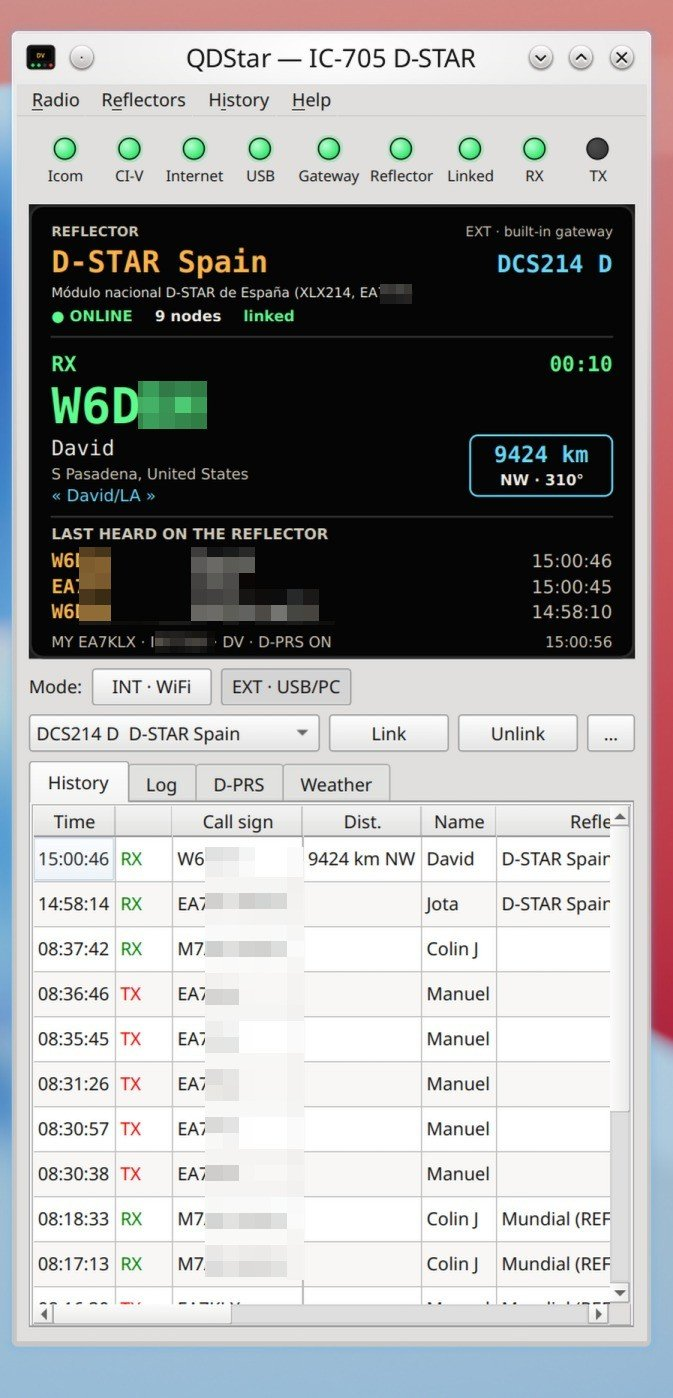
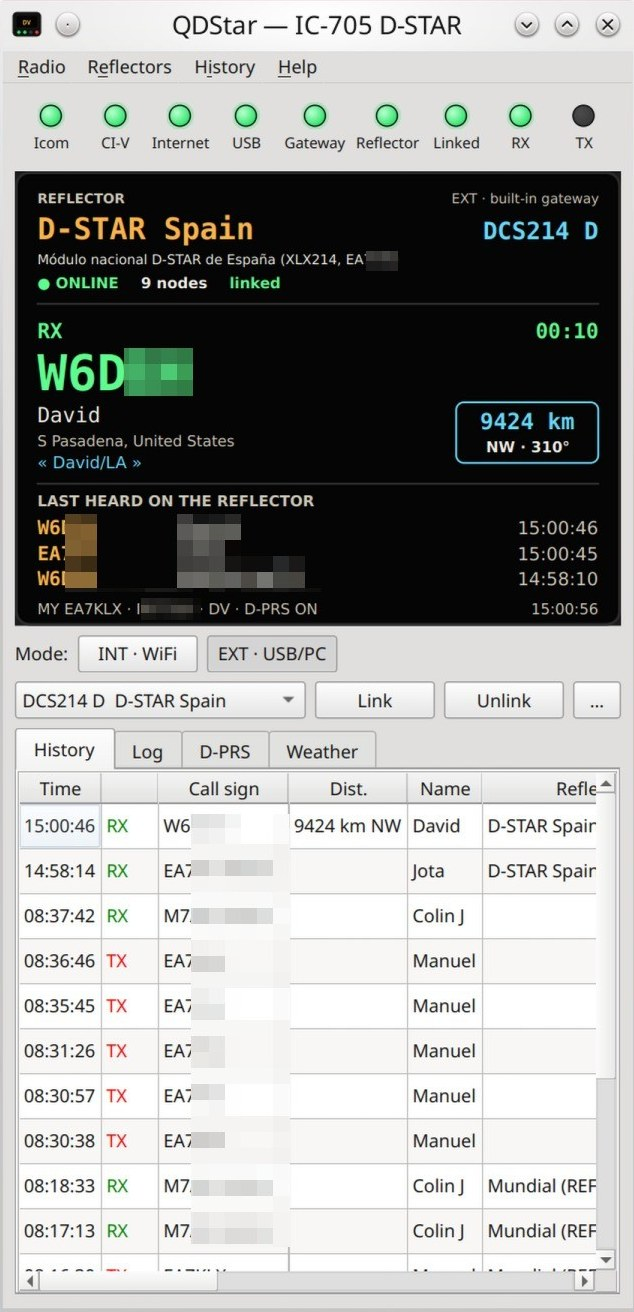
Website: download guide per system, cropped photos, click to enlarge images

diff --git a/website/site/es/index.html b/website/site/es/index.html
@@ -34,11 +34,11 @@
         <a class="btn primary" href="#descarga">Descargar</a>
         <a class="btn" href="/es/manual.html">Leer el manual</a>
       </div>
-      <p class="version" data-version="Última versión: {v}">Software libre · GPL-3.0</p>
+      <p class="version">Software libre · GPL-3.0</p>
     </div>
     <div class="photos">
-      <img src="/img/photo-history.jpg" width="673" height="1398" alt="QDStar enlazado a DCS214 D, recibiendo una estación de California, con la pestaña de histórico abierta">
-      <img src="/img/photo-weather.jpg" width="746" height="1382" alt="QDStar enlazado a DCS214 D con la pestaña de meteo mostrando una estación meteorológica D-PRS">
+      <img src="/img/photo-history.jpg" width="634" height="1312" alt="QDStar enlazado a DCS214 D, recibiendo una estación de California, con la pestaña de histórico abierta">
+      <img src="/img/photo-weather.jpg" width="634" height="1312" alt="QDStar enlazado a DCS214 D con la pestaña de meteo mostrando una estación meteorológica D-PRS">
     </div>
   </div>
 
@@ -71,21 +71,26 @@
 
   <section id="descarga">
     <h2>Descarga</h2>
-    <table class="dl">
-      <tr><th>Sistema</th><th>Archivos</th></tr>
-      <tr><td>Windows 10/11 x64</td><td>
-        <a data-asset="-windows-x64-setup.exe" href="https://github.com/manuel-alcocer/qdstar/releases/latest">Instalador (.exe)</a> ·
-        <a data-asset="-windows-x64-portable.zip" href="https://github.com/manuel-alcocer/qdstar/releases/latest">Portable (.zip)</a></td></tr>
-      <tr><td>Linux x86-64</td><td>
-        <a data-asset="_amd64.deb" href="https://github.com/manuel-alcocer/qdstar/releases/latest">.deb</a> ·
-        <a data-asset="-x86_64.AppImage" href="https://github.com/manuel-alcocer/qdstar/releases/latest">AppImage</a> ·
-        <a data-asset="-linux-amd64.tar.gz" href="https://github.com/manuel-alcocer/qdstar/releases/latest">.tar.gz</a></td></tr>
-      <tr><td>Linux ARM64<br><small style="color:var(--dim)">Raspberry Pi OS bookworm, Debian 12+, Ubuntu 22.04+</small></td><td>
-        <a data-asset="_arm64.deb" href="https://github.com/manuel-alcocer/qdstar/releases/latest">.deb</a> ·
-        <a data-asset="-aarch64.AppImage" href="https://github.com/manuel-alcocer/qdstar/releases/latest">AppImage</a> ·
-        <a data-asset="-linux-arm64.tar.gz" href="https://github.com/manuel-alcocer/qdstar/releases/latest">.tar.gz</a></td></tr>
-    </table>
-    <p>Todas las versiones y sus novedades están en la <a href="https://github.com/manuel-alcocer/qdstar/releases">página de publicaciones</a>. La instalación y la configuración de la radio se explican en el <a href="/es/manual.html#instalacion">manual</a>.</p>
+    <p>Todas las versiones se publican en GitHub. Elige el archivo de tu sistema con la tabla de abajo.</p>
+    <p class="buttons"><a class="btn primary" href="https://github.com/manuel-alcocer/qdstar/releases/latest">Descargar desde GitHub</a></p>
+    <p class="version" data-version="Última versión: {v}"></p>
+    <div class="systems">
+      <div class="card system"><h3>Windows 10/11</h3><p class="sub">64 bits</p>
+        <div class="file"><code>QDStar-x.y.z-windows-x64-setup.exe</code> <span class="tag">Recomendado</span><p>Un instalador que añade QDStar al menú Inicio. Para actualizar, ejecuta el instalador de la versión nueva: se conservan tus ajustes.</p></div>
+        <div class="file"><code>QDStar-x.y.z-windows-x64-portable.zip</code><p>Sin instalación: descomprímelo en cualquier carpeta, o en un pendrive, y ejecuta <code>qdstar.exe</code>.</p></div>
+      </div>
+      <div class="card system"><h3>Linux en un PC</h3><p class="sub">x86-64 / amd64</p>
+        <div class="file"><code>qdstar_x.y.z_amd64.deb</code> <span class="tag">Recomendado</span><p>Para Debian, Ubuntu, Linux Mint y sus derivadas. Se instala con <code>sudo apt install ./qdstar_x.y.z_amd64.deb</code>.</p></div>
+        <div class="file"><code>QDStar-x.y.z-x86_64.AppImage</code><p>Funciona en casi cualquier distribución (Fedora, Arch, openSUSE…). Dale permiso de ejecución y ábrelo.</p></div>
+        <div class="file"><code>QDStar-x.y.z-linux-amd64.tar.gz</code><p>El programa en archivos sueltos, para descomprimir donde quieras.</p></div>
+      </div>
+      <div class="card system"><h3>Linux en ARM</h3><p class="sub">arm64 / aarch64: Raspberry Pi 4/5 y otros mini PC con sistema de 64 bits</p>
+        <div class="file"><code>qdstar_x.y.z_arm64.deb</code> <span class="tag">Recomendado</span><p>Para Raspberry Pi OS (64 bits, bookworm o posterior), Debian y Ubuntu.</p></div>
+        <div class="file"><code>QDStar-x.y.z-aarch64.AppImage</code><p>Para otras distribuciones ARM64.</p></div>
+        <div class="file"><code>QDStar-x.y.z-linux-arm64.tar.gz</code><p>El programa en archivos sueltos.</p></div>
+      </div>
+    </div>
+    <p><code>x.y.z</code> es el número de versión. ¿No sabes qué Linux tienes? Ejecuta <code>uname -m</code>: <code>x86_64</code> es PC (amd64) y <code>aarch64</code> es ARM64. La instalación y la configuración de la radio se explican en el <a href="/es/manual.html#instalacion">manual</a>.</p>
   </section>
 </main>
 
@@ -96,5 +101,6 @@
   </div>
 </footer>
 <script src="/latest.js" defer></script>
+<script src="/zoom.js" defer></script>
 </body>
 </html>

diff --git a/website/site/index.html b/website/site/index.html
@@ -34,11 +34,11 @@
         <a class="btn primary" href="#download">Download</a>
         <a class="btn" href="/manual.html">Read the manual</a>
       </div>
-      <p class="version" data-version="Latest version: {v}">Free software · GPL-3.0</p>
+      <p class="version">Free software · GPL-3.0</p>
     </div>
     <div class="photos">
-      <img src="/img/photo-history.jpg" width="673" height="1398" alt="QDStar linked to DCS214 D, receiving a station from California, with the history tab open">
-      <img src="/img/photo-weather.jpg" width="746" height="1382" alt="QDStar linked to DCS214 D with the weather tab showing a D-PRS weather station">
+      <img src="/img/photo-history.jpg" width="634" height="1312" alt="QDStar linked to DCS214 D, receiving a station from California, with the history tab open">
+      <img src="/img/photo-weather.jpg" width="634" height="1312" alt="QDStar linked to DCS214 D with the weather tab showing a D-PRS weather station">
     </div>
   </div>
 
@@ -71,21 +71,26 @@
 
   <section id="download">
     <h2>Download</h2>
-    <table class="dl">
-      <tr><th>System</th><th>Files</th></tr>
-      <tr><td>Windows 10/11 x64</td><td>
-        <a data-asset="-windows-x64-setup.exe" href="https://github.com/manuel-alcocer/qdstar/releases/latest">Installer (.exe)</a> ·
-        <a data-asset="-windows-x64-portable.zip" href="https://github.com/manuel-alcocer/qdstar/releases/latest">Portable (.zip)</a></td></tr>
-      <tr><td>Linux x86-64</td><td>
-        <a data-asset="_amd64.deb" href="https://github.com/manuel-alcocer/qdstar/releases/latest">.deb</a> ·
-        <a data-asset="-x86_64.AppImage" href="https://github.com/manuel-alcocer/qdstar/releases/latest">AppImage</a> ·
-        <a data-asset="-linux-amd64.tar.gz" href="https://github.com/manuel-alcocer/qdstar/releases/latest">.tar.gz</a></td></tr>
-      <tr><td>Linux ARM64<br><small style="color:var(--dim)">Raspberry Pi OS bookworm, Debian 12+, Ubuntu 22.04+</small></td><td>
-        <a data-asset="_arm64.deb" href="https://github.com/manuel-alcocer/qdstar/releases/latest">.deb</a> ·
-        <a data-asset="-aarch64.AppImage" href="https://github.com/manuel-alcocer/qdstar/releases/latest">AppImage</a> ·
-        <a data-asset="-linux-arm64.tar.gz" href="https://github.com/manuel-alcocer/qdstar/releases/latest">.tar.gz</a></td></tr>
-    </table>
-    <p>All versions and release notes are on the <a href="https://github.com/manuel-alcocer/qdstar/releases">releases page</a>. See the <a href="/manual.html#install">manual</a> for installation and radio setup.</p>
+    <p>Every version is published on GitHub. Pick the file for your system from the list below.</p>
+    <p class="buttons"><a class="btn primary" href="https://github.com/manuel-alcocer/qdstar/releases/latest">Download from GitHub</a></p>
+    <p class="version" data-version="Latest version: {v}"></p>
+    <div class="systems">
+      <div class="card system"><h3>Windows 10/11</h3><p class="sub">64-bit</p>
+        <div class="file"><code>QDStar-x.y.z-windows-x64-setup.exe</code> <span class="tag">Recommended</span><p>An installer that adds QDStar to the Start menu. To update, run the new version's installer: your settings are kept.</p></div>
+        <div class="file"><code>QDStar-x.y.z-windows-x64-portable.zip</code><p>No installation: unzip it in any folder, or on a USB stick, and run <code>qdstar.exe</code>.</p></div>
+      </div>
+      <div class="card system"><h3>Linux on a PC</h3><p class="sub">x86-64 / amd64</p>
+        <div class="file"><code>qdstar_x.y.z_amd64.deb</code> <span class="tag">Recommended</span><p>For Debian, Ubuntu, Linux Mint and their derivatives. Install it with <code>sudo apt install ./qdstar_x.y.z_amd64.deb</code>.</p></div>
+        <div class="file"><code>QDStar-x.y.z-x86_64.AppImage</code><p>Works on almost any distribution (Fedora, Arch, openSUSE…). Make it executable and run it.</p></div>
+        <div class="file"><code>QDStar-x.y.z-linux-amd64.tar.gz</code><p>The program as plain files, to unpack wherever you like.</p></div>
+      </div>
+      <div class="card system"><h3>Linux on ARM</h3><p class="sub">arm64 / aarch64: Raspberry Pi 4/5 and other mini PCs with a 64-bit system</p>
+        <div class="file"><code>qdstar_x.y.z_arm64.deb</code> <span class="tag">Recommended</span><p>For Raspberry Pi OS (64-bit, bookworm or later), Debian and Ubuntu.</p></div>
+        <div class="file"><code>QDStar-x.y.z-aarch64.AppImage</code><p>For other ARM64 distributions.</p></div>
+        <div class="file"><code>QDStar-x.y.z-linux-arm64.tar.gz</code><p>The program as plain files.</p></div>
+      </div>
+    </div>
+    <p><code>x.y.z</code> is the version number. Not sure which Linux you have? Run <code>uname -m</code>: <code>x86_64</code> means PC (amd64), <code>aarch64</code> means ARM64. See the <a href="/manual.html#install">manual</a> for installation and radio setup.</p>
   </section>
 </main>
 
@@ -96,5 +101,6 @@
   </div>
 </footer>
 <script src="/latest.js" defer></script>
+<script src="/zoom.js" defer></script>
 </body>
 </html>

diff --git a/website/site/style.css b/website/site/style.css
@@ -202,3 +202,54 @@ footer .wrap { display: flex; flex-wrap: wrap; gap: 8px 24px; justify-content: s
   .toc { position: static; }
   header.top nav a:not(.lang):not(.keep) { display: none; }
 }
+
+/* --- enlarged images ---------------------------------------------------- */
+
+img.zoomable { cursor: zoom-in; }
+
+.zoom {
+  display: none;
+  position: fixed;
+  inset: 0;
+  z-index: 100;
+  background: rgba(0, 0, 0, .9);
+  cursor: zoom-out;
+  align-items: center;
+  justify-content: center;
+  padding: 12px;
+}
+.zoom.open { display: flex; }
+.zoom img {
+  width: auto;
+  height: auto;
+  max-width: 100%;
+  max-height: 100%;
+  object-fit: contain;
+  border-radius: 8px;
+  box-shadow: 0 10px 50px rgba(0, 0, 0, .7);
+}
+body.zoomed { overflow: hidden; }
+
+/* --- downloads ---------------------------------------------------------- */
+
+.systems { display: grid; grid-template-columns: repeat(auto-fit, minmax(300px, 1fr)); gap: 16px; margin: 20px 0; }
+.system .sub { color: var(--dim); font-size: 14px; margin: 0 0 12px; }
+.system .file { border-top: 1px solid var(--line); padding: 10px 0 4px; }
+.system .file > code { color: var(--cyan); }
+.system .file p { margin: 6px 0 0; font-size: 15px; color: var(--text); }
+.tag {
+  display: inline-block;
+  margin-left: 6px;
+  padding: 0 7px;
+  border-radius: 999px;
+  background: var(--green);
+  color: #06260f;
+  font-size: 12px;
+  font-weight: 700;
+  vertical-align: 1px;
+}
+
+/* long commands and file names wrap instead of widening the page */
+code { overflow-wrap: anywhere; }
+.doc { min-width: 0; }
+@media (max-width: 820px) { .doc table { display: block; overflow-x: auto; } }

diff --git a/website/site/latest.js b/website/site/latest.js
@@ -1,23 +1,13 @@
-// Fills in the latest release: version label and direct download links.
-// Without JavaScript (or if GitHub does not answer) the links keep pointing
-// at the releases page.
+// Shows the latest release's version next to the download link. Without
+// JavaScript (or if GitHub does not answer) the label keeps its default text.
 (function () {
-  var api = "https://api.github.com/repos/manuel-alcocer/qdstar/releases/latest";
-  fetch(api, { headers: { Accept: "application/vnd.github+json" } })
+  fetch("https://api.github.com/repos/manuel-alcocer/qdstar/releases/latest",
+        { headers: { Accept: "application/vnd.github+json" } })
     .then(function (r) { return r.ok ? r.json() : Promise.reject(r.status); })
     .then(function (release) {
       document.querySelectorAll("[data-version]").forEach(function (el) {
         el.textContent = el.getAttribute("data-version").replace("{v}", release.tag_name);
       });
-      var assets = release.assets || [];
-      document.querySelectorAll("a[data-asset]").forEach(function (a) {
-        var suffix = a.getAttribute("data-asset");
-        var match = assets.find(function (x) { return x.name.endsWith(suffix); });
-        if (match) {
-          a.href = match.browser_download_url;
-          a.title = match.name;
-        }
-      });
     })
-    .catch(function () { /* keep the releases page links */ });
+    .catch(function () { /* keep the default text */ });
 })();

diff --git a/website/site/zoom.js b/website/site/zoom.js
@@ -1,0 +1,35 @@
+// Click an image to see it as large as the browser window; click again,
+// or press Escape, to close it.
+(function () {
+  var overlay = document.createElement("div");
+  overlay.className = "zoom";
+  overlay.setAttribute("role", "dialog");
+  overlay.setAttribute("aria-modal", "true");
+  var big = document.createElement("img");
+  overlay.appendChild(big);
+  document.body.appendChild(overlay);
+
+  function close() {
+    overlay.classList.remove("open");
+    document.body.classList.remove("zoomed");
+  }
+  function open(img) {
+    big.src = img.currentSrc || img.src;
+    big.alt = img.alt;
+    overlay.classList.add("open");
+    document.body.classList.add("zoomed");
+  }
+
+  document.querySelectorAll(".photos img, figure img").forEach(function (img) {
+    img.classList.add("zoomable");
+    img.tabIndex = 0;
+    img.addEventListener("click", function () { open(img); });
+    img.addEventListener("keydown", function (e) {
+      if (e.key === "Enter" || e.key === " ") { e.preventDefault(); open(img); }
+    });
+  });
+  overlay.addEventListener("click", close);
+  document.addEventListener("keydown", function (e) {
+    if (e.key === "Escape") close();
+  });
+})();

diff --git a/website/site/es/manual.html b/website/site/es/manual.html
@@ -249,5 +249,6 @@
     <span><a href="https://github.com/manuel-alcocer/qdstar">Código fuente</a> · GPL-3.0-or-later</span>
   </div>
 </footer>
+<script src="/zoom.js" defer></script>
 </body>
 </html>

diff --git a/website/site/manual.html b/website/site/manual.html
@@ -249,5 +249,6 @@
     <span><a href="https://github.com/manuel-alcocer/qdstar">Source code</a> · GPL-3.0-or-later</span>
   </div>
 </footer>
+<script src="/zoom.js" defer></script>
 </body>
 </html>
